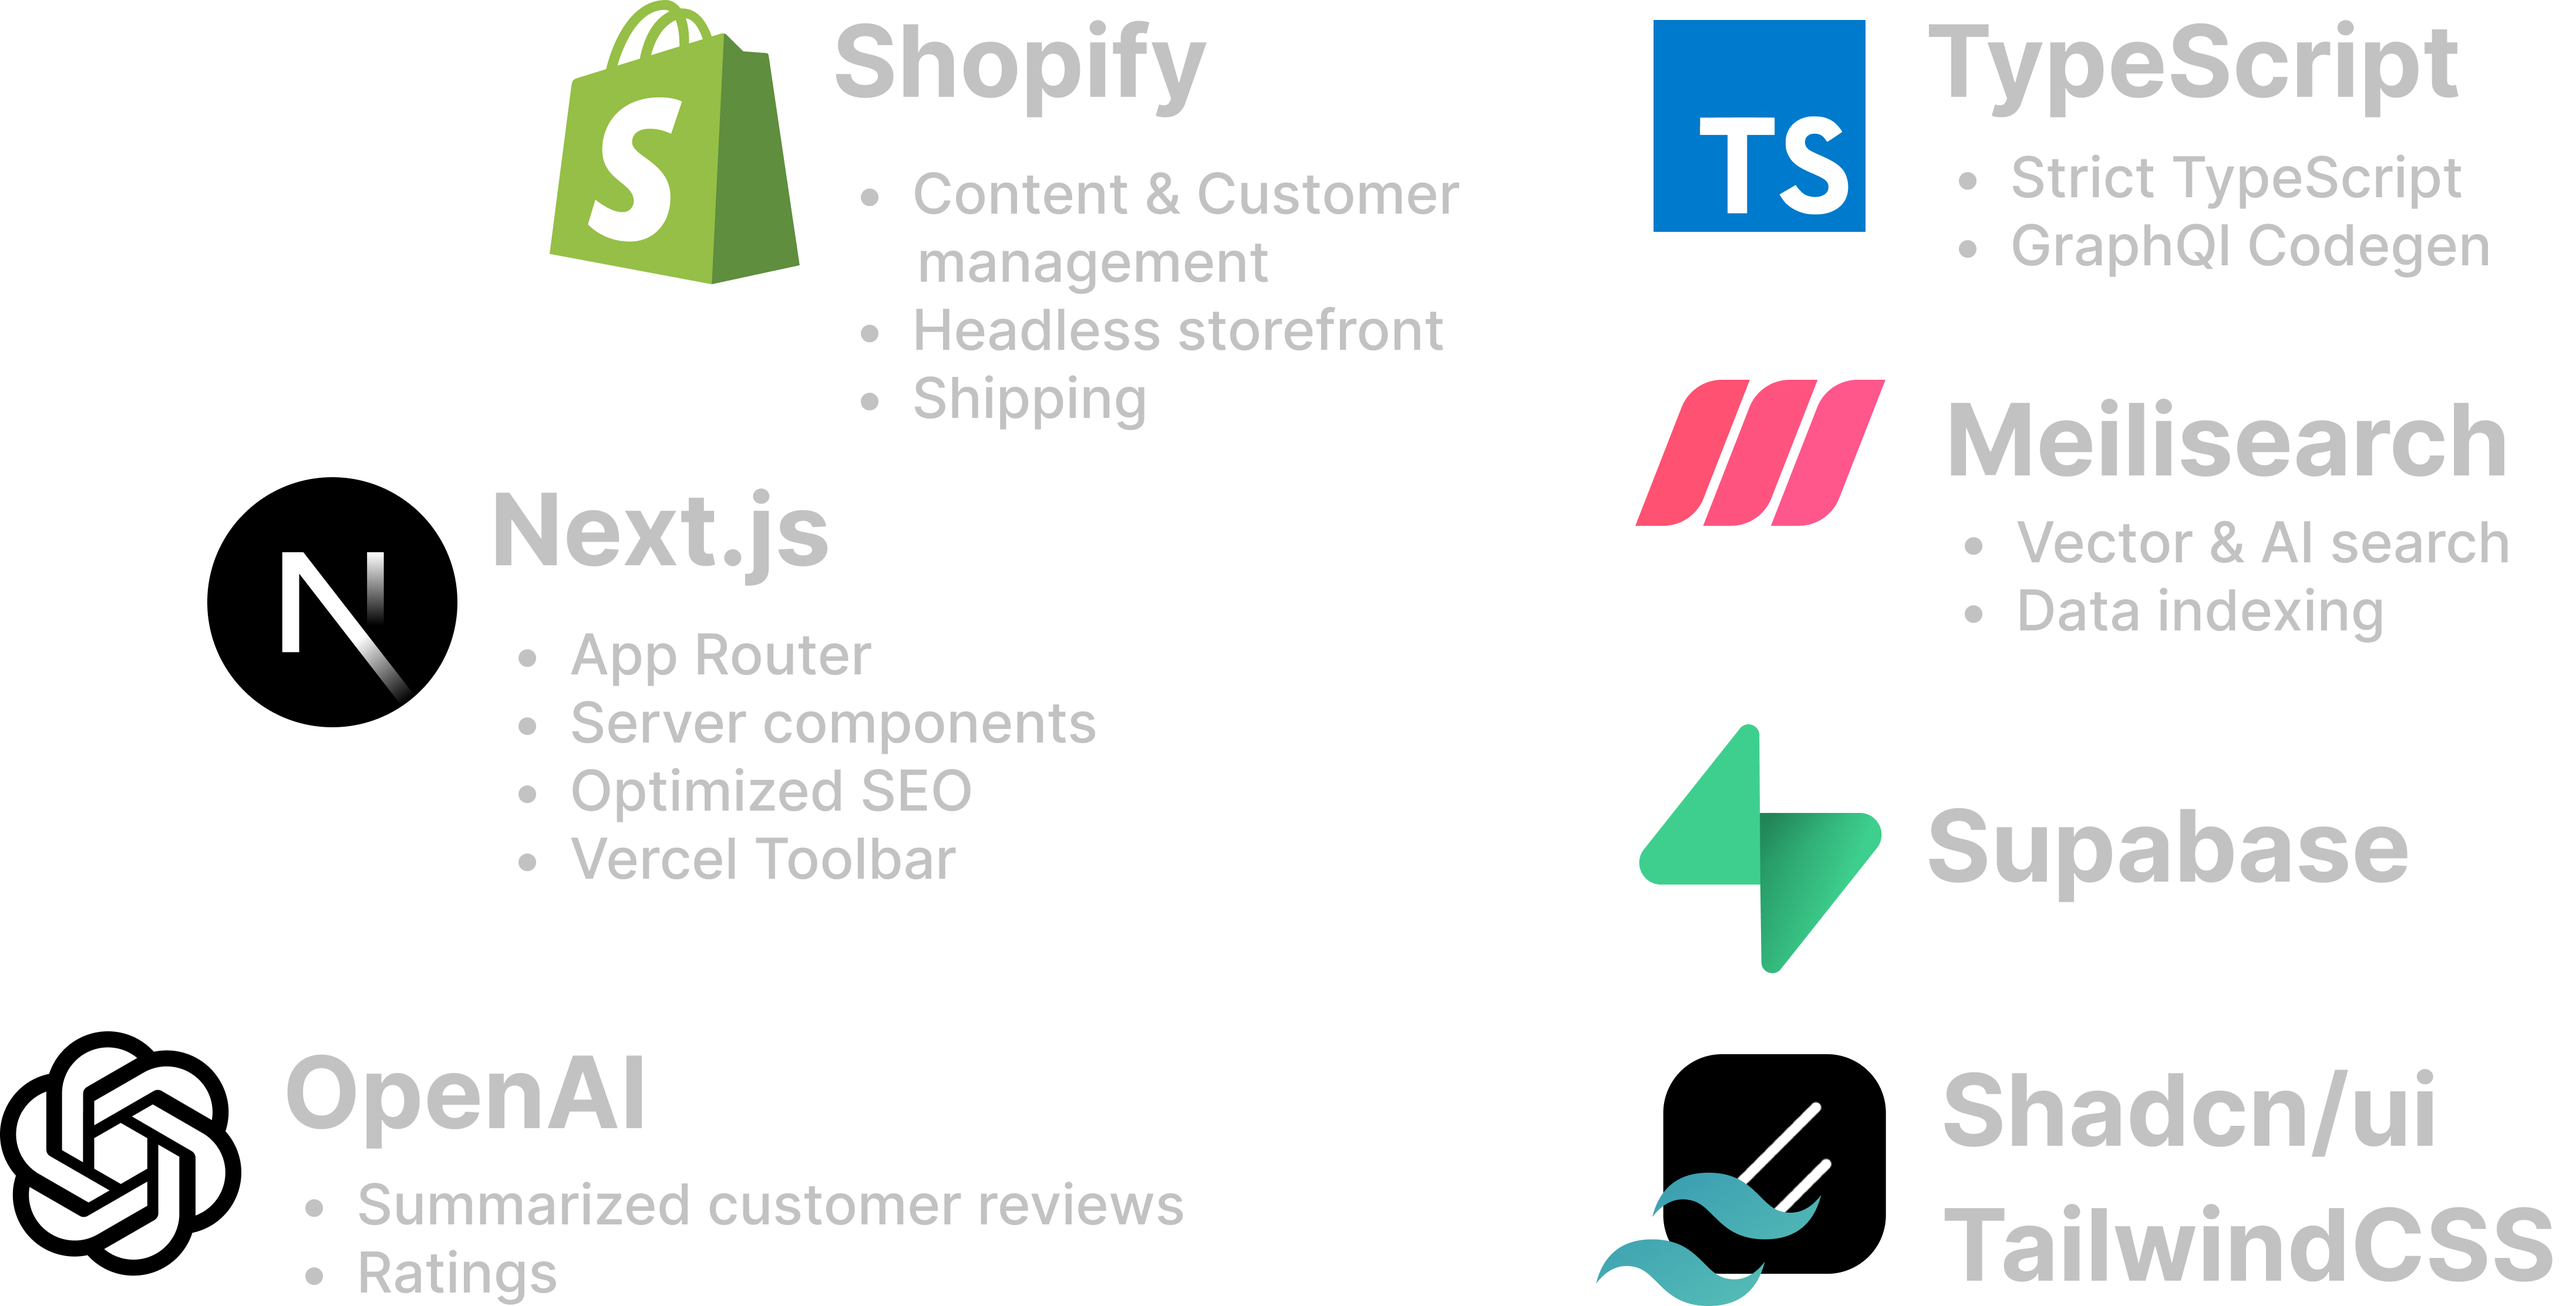
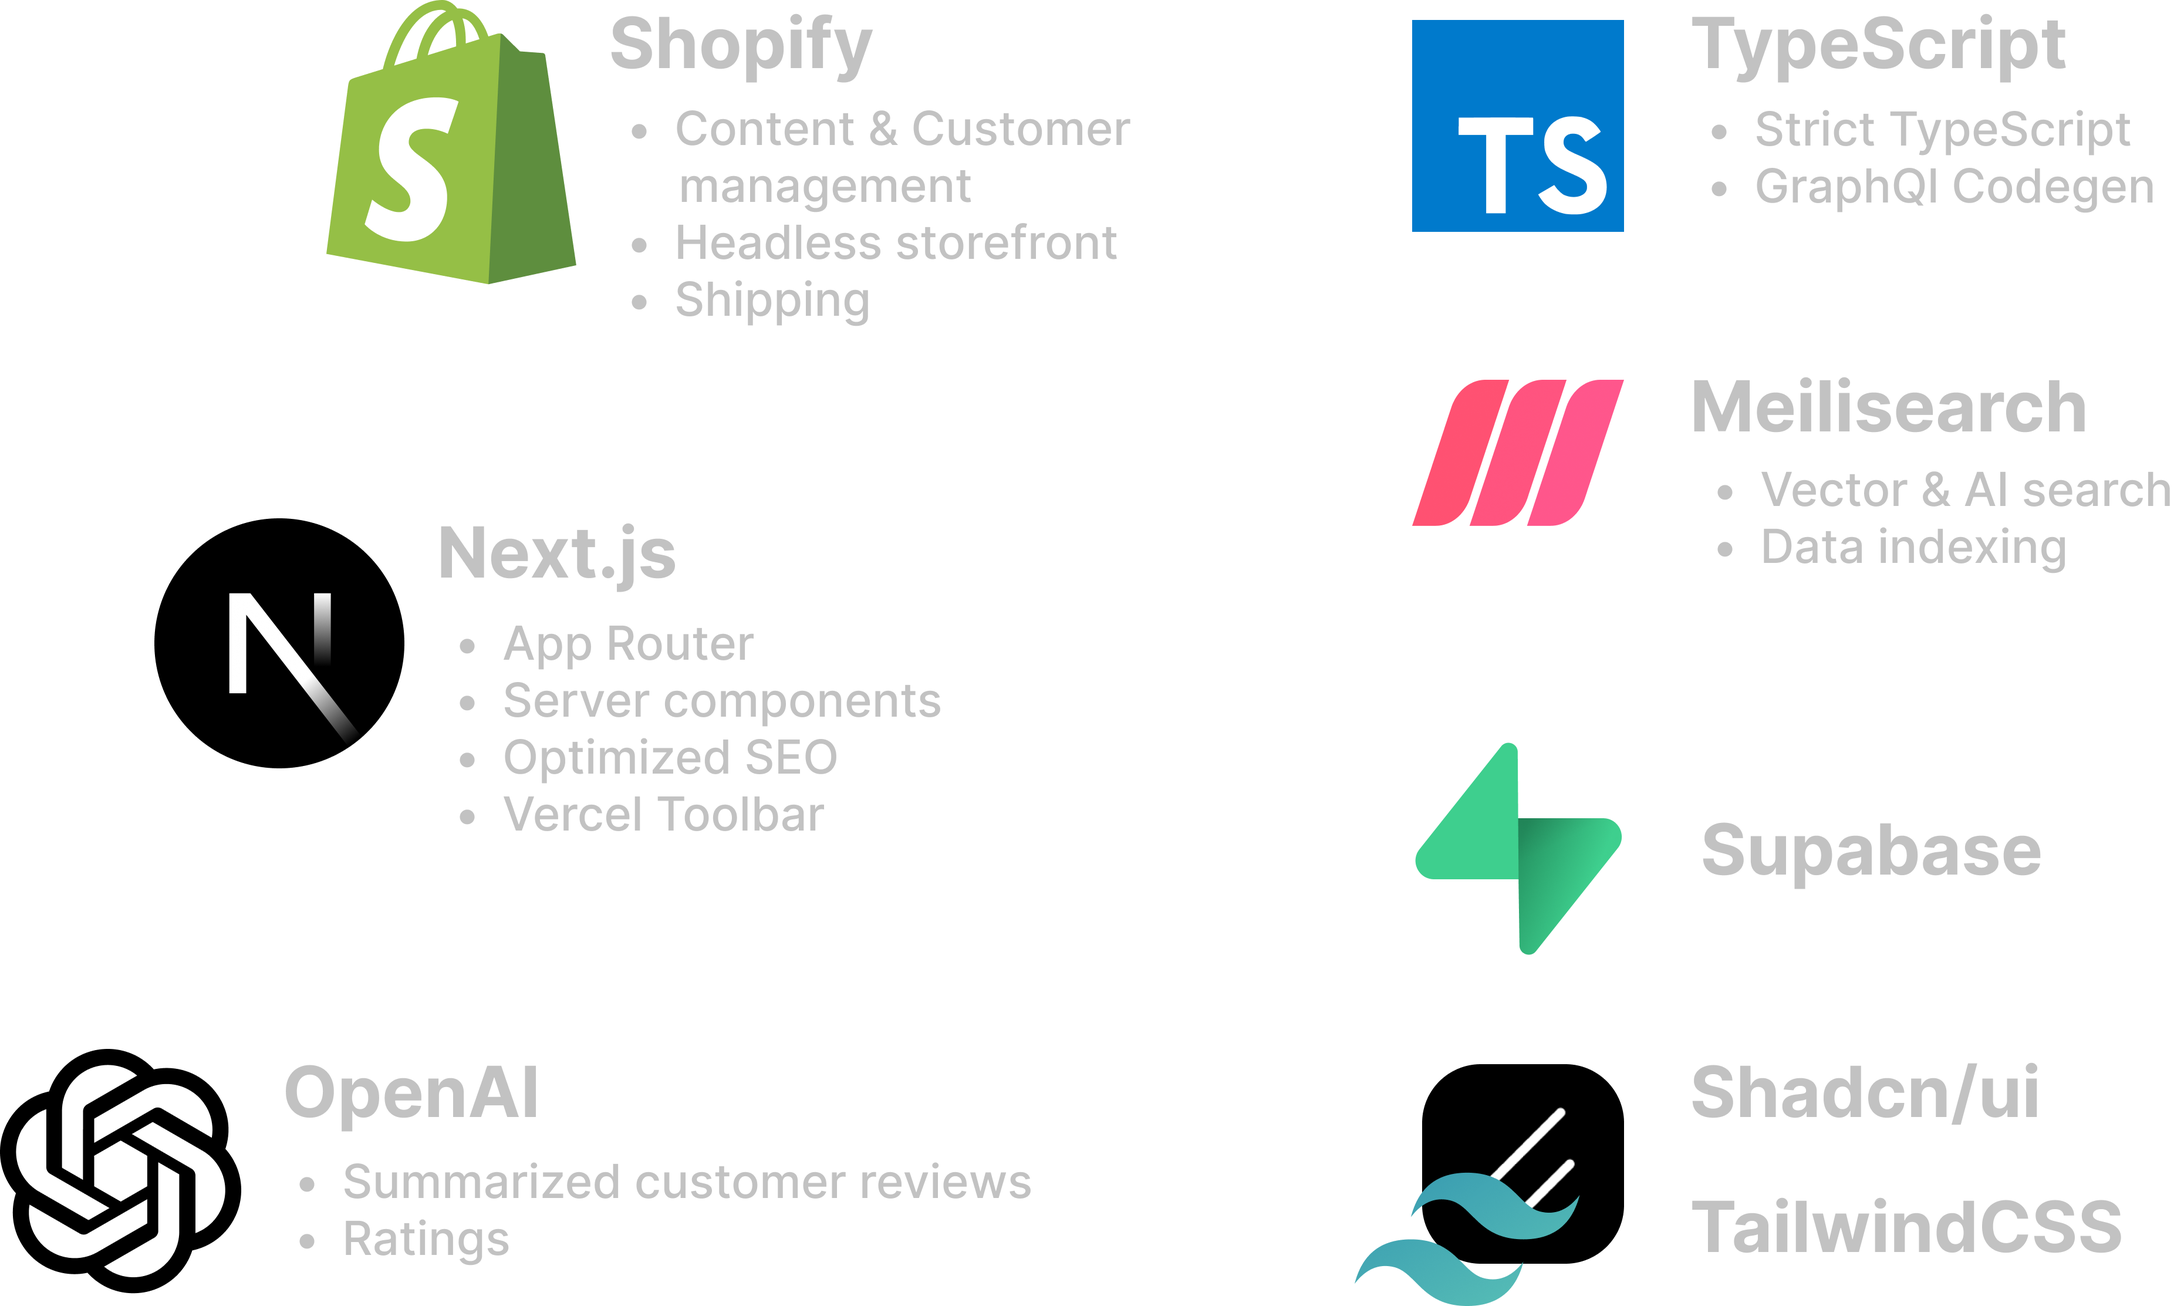
chore: add constants and tech images

diff --git a/lib/constants.ts b/lib/constants.ts
@@ -1,3 +1,6 @@
+import { Computer, Search } from 'lucide-react'
+import Shoify from '@/public/TechIcons/shopify.svg'
+import Meili from '@/public/TechIcons/meilisearch.svg'
 export const servicePlan = {
   name: 'Service Plan',
   price: 999,
@@ -10,3 +13,46 @@ export const servicePlan = {
     'Store Maintenance'
   ]
 }
+
+export const NavItems = [
+  {
+    name: 'Pricing',
+    link: '/#pricing'
+  },
+  {
+    name: 'Wall of Love',
+    link: '/#wol'
+  },
+  {
+    name: 'What is Shipi.fyi?',
+    link: '/#wtf'
+  },
+  {
+    name: 'FAQ',
+    link: '/#faq'
+  }
+]
+
+export const DETAILS = [
+  {
+    name: 'E-COMMERCE ENGINE',
+    icon: Computer,
+    options: [
+      'Manage customers, products, orders, and inventory',
+      'Secure Payment gateway',
+      'Interaction through GraphQl API',
+      'Flexible theme customization',
+      'SEO ooptimized',
+      'Product suggestions'
+    ],
+    image: Shoify,
+    description:
+      'Shopify is a complete commerce platform that lets you start, grow, and manage a business.'
+  },
+  {
+    name: 'SEARCH ENGINE',
+    icon: Search,
+    options: ['AI powered Vector search', 'Faceted search', 'Fast search results', 'mul'],
+    image: Meili
+  }
+]
